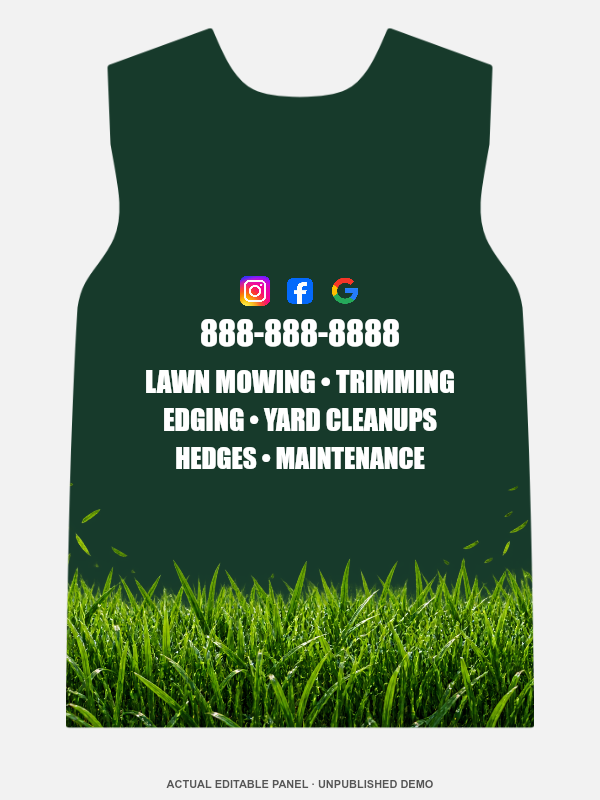
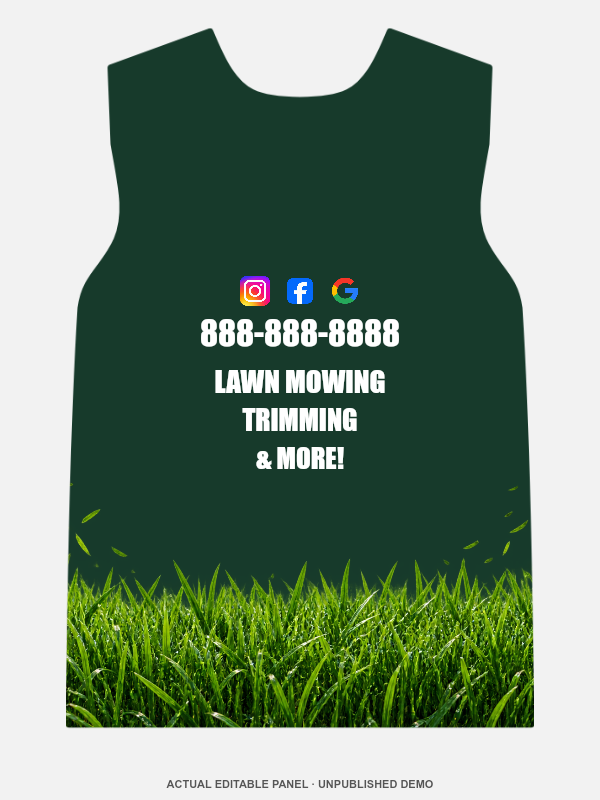
Use the approved service stack and And More ending for every trade

Changed region(s): [[0.24, 0.4375, 0.78, 0.5938]]

diff --git a/v20/template-demo.js b/v20/template-demo.js
@@ -518,7 +518,7 @@ export const demoVersions=[
                 "id": "Back-services",
                 "type": "text",
                 "label": "Services line 1",
-                "text": "LAWN MOWING • TRIMMING",
+                "text": "LAWN MOWING",
                 "x": 0,
                 "y": 1,
                 "scale": 0.62,
@@ -536,7 +536,7 @@ export const demoVersions=[
                 "id": "Back-services-2",
                 "type": "text",
                 "label": "Services line 2",
-                "text": "EDGING • YARD CLEANUPS",
+                "text": "TRIMMING",
                 "x": 0,
                 "y": 12,
                 "scale": 0.6,
@@ -554,7 +554,7 @@ export const demoVersions=[
                 "id": "Back-services-3",
                 "type": "text",
                 "label": "Services line 3",
-                "text": "HEDGES • MAINTENANCE",
+                "text": "& MORE!",
                 "x": 0,
                 "y": 23,
                 "scale": 0.58,
@@ -854,7 +854,7 @@ export const demoVersions=[
                 "id": "Back-services",
                 "type": "text",
                 "label": "Services line 1",
-                "text": "HEATING • COOLING",
+                "text": "HEATING",
                 "x": 0,
                 "y": 1,
                 "scale": 0.62,
@@ -872,7 +872,7 @@ export const demoVersions=[
                 "id": "Back-services-2",
                 "type": "text",
                 "label": "Services line 2",
-                "text": "REPAIRS • MAINTENANCE",
+                "text": "COOLING",
                 "x": 0,
                 "y": 12,
                 "scale": 0.6,
@@ -1208,7 +1208,7 @@ export const demoVersions=[
                 "id": "Back-services-2",
                 "type": "text",
                 "label": "Services line 2",
-                "text": "WATER CARE • MAINTENANCE",
+                "text": "WATER CARE",
                 "x": 0,
                 "y": 12,
                 "scale": 0.6,
